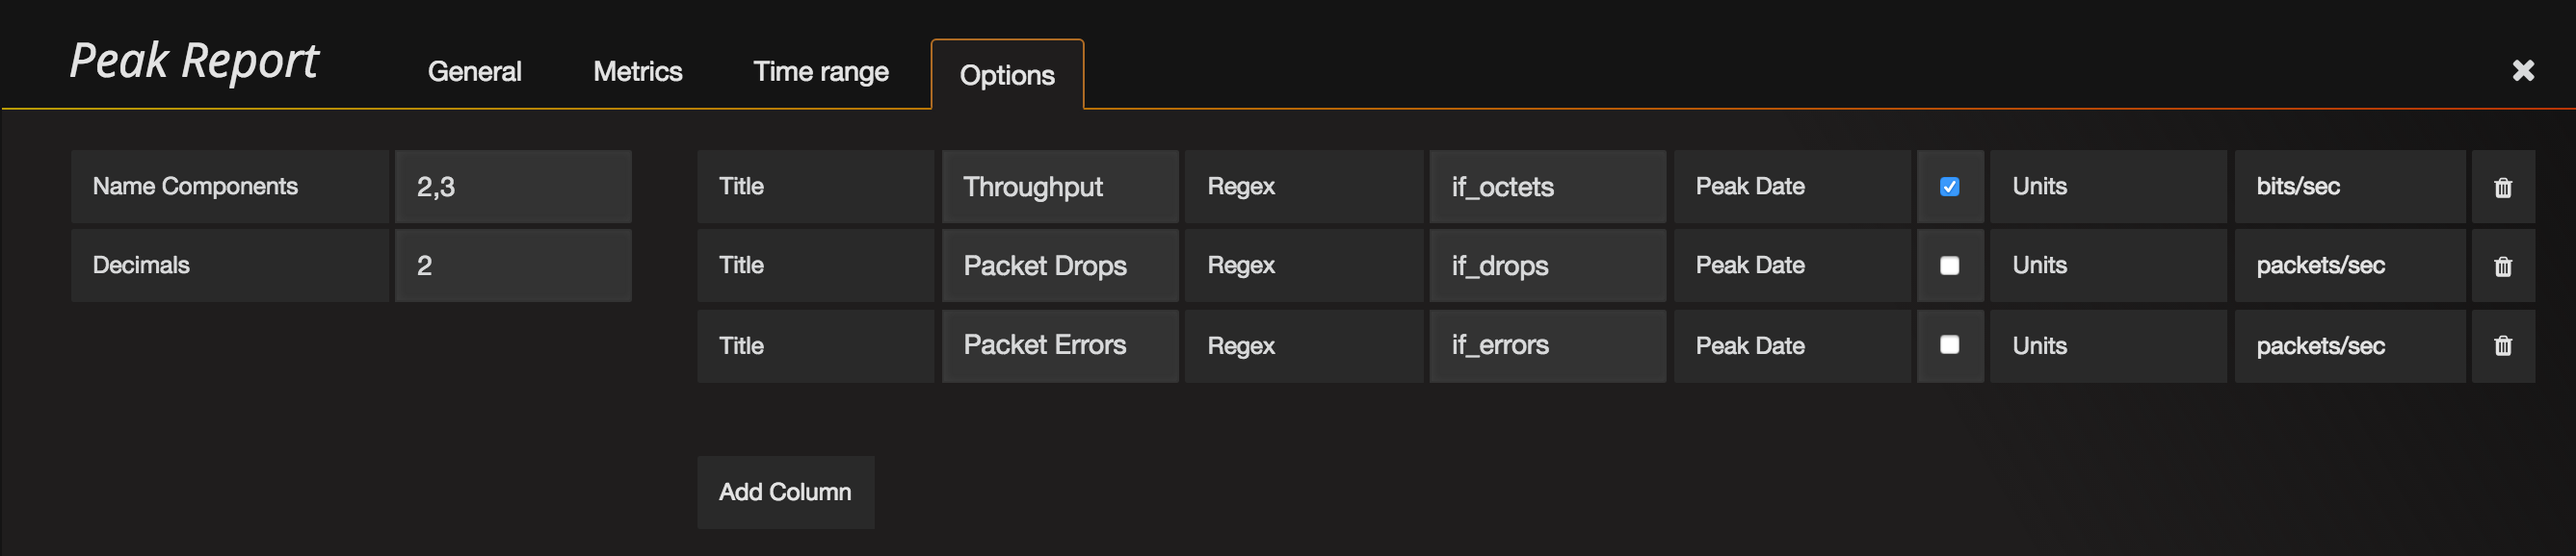
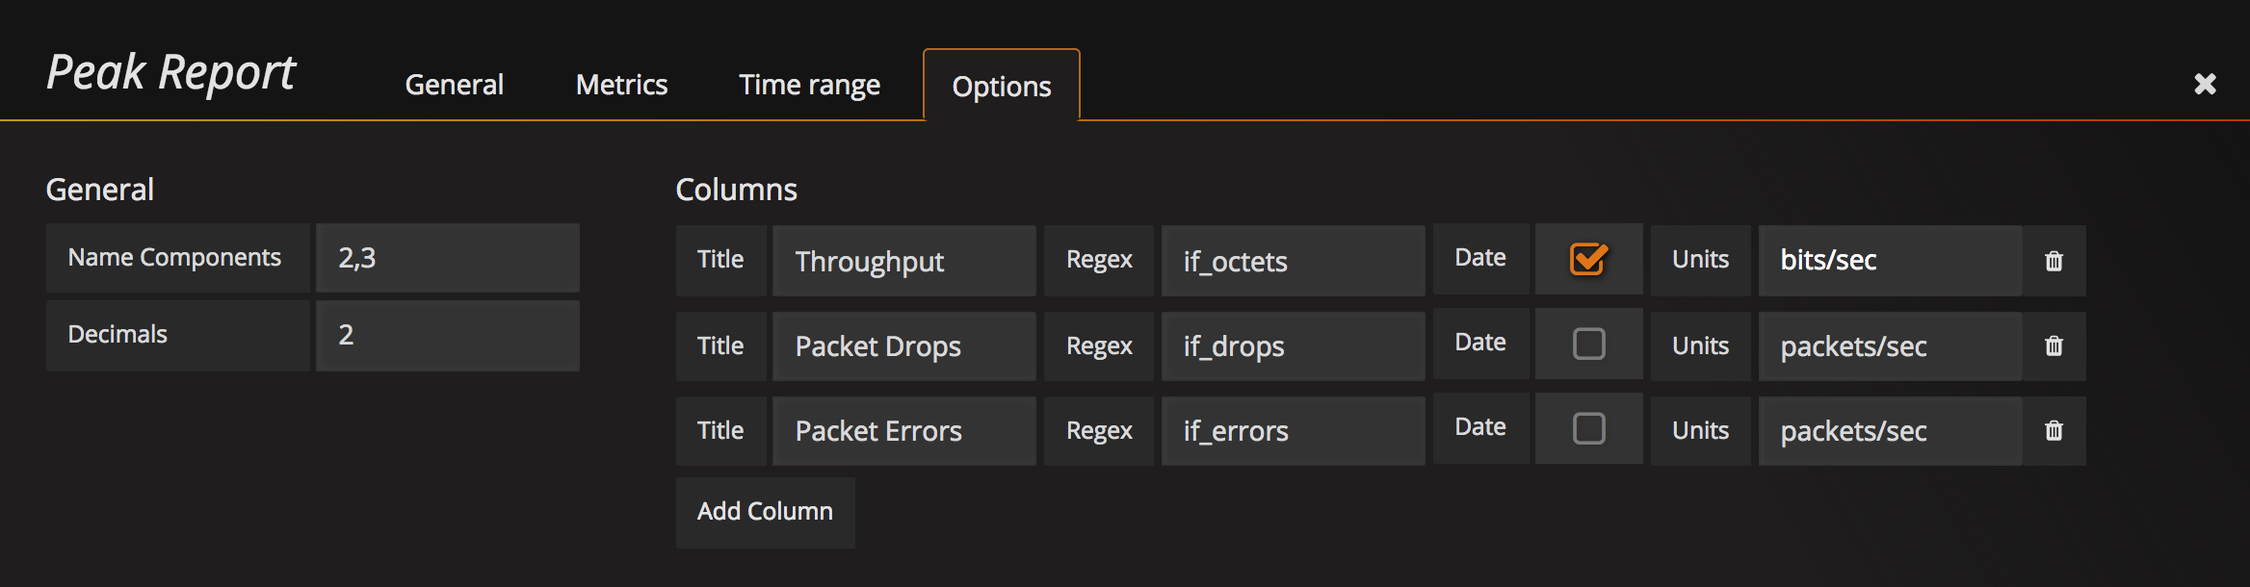
Tweak styles and screenshots

diff --git a/dist/editor.html b/dist/editor.html
@@ -1,50 +1,40 @@
-<div class="col-md-3">
-  <div class="editor-row">
+<div class="editor-row">
+  <div class="section gf-form-group">
+    <h5 class="section-heading">General</h5>
+
     <div class="gf-form">
       <label class="gf-form-label width-10">Name Components</label>
-        <input type="text" class="input-small gf-form-input width-9"
-               ng-model="ctrl.panel.nameComponents" ng-change="ctrl.render()"/>
+        <input type="text" class="input-small gf-form-input width-10" ng-model="ctrl.panel.nameComponents" ng-change="ctrl.render()"/>
     </div>
+
     <div class="gf-form">
       <label class="gf-form-label width-10">Decimals</label>
-        <input type="text" class="input-small gf-form-input width-9"
-               ng-model="ctrl.panel.decimals" ng-change="ctrl.render()" >
+        <input type="text" class="input-small gf-form-input width-10" ng-model="ctrl.panel.decimals" ng-change="ctrl.render()" >
     </div>
   </div>
-</div>
 
-<div class="col-md-9">
-  <div class="editor-row">
-    <div class="section gf-form-group">
-      <div class="gf-form" ng-repeat="column in ctrl.panel.columns">
-        <label class="gf-form-label width-10">Title</label>
-        <input type="text" class="input-small gf-form-input width-9" ng-model="column.title" ng-change="ctrl.render()" ng-model-onblur=true/>
+  <div class="section gf-form-group">
+    <h5 class="section-heading">Columns</h5>
 
-        <label class="gf-form-label width-8">Regex</label>
-        <input type="text" class="input-small gf-form-input width-9" ng-model="column.regex" ng-change="ctrl.render()" ng-model-onblur=true/>
+    <div class="gf-form" ng-repeat="column in ctrl.panel.columns">
+      <label class="gf-form-label">Title</label>
+      <input type="text" class="input-small gf-form-input width-10" ng-model="column.title" ng-change="ctrl.render()"/>
 
-        <label class="gf-form-label width-8">Peak Date</label>
-        <div class="input-small gf-form-input width-3">
-          <input type="checkbox" ng-model="column.showDate" ng-change="ctrl.render()" ng-model-onblur=true/>
-        </div>
-        <br/>
+      <label class="gf-form-label">Regex</label>
+      <input type="text" class="input-small gf-form-input width-10" ng-model="column.regex" ng-change="ctrl.render()"/>
 
-        <label class="gf-form-label width-8">Units</label>
-	<div class="dropdown width-15"
-             ng-model="column.format"
-             dropdown-typeahead="ctrl.unitFormats"
-             dropdown-typeahead-on-select="ctrl.onEditorFormatSelect($subItem, column)">
-        </div>
+      <gf-form-switch class="gf-form" label="Date" checked="column.showDate" on-change="ctrl.render()"/>
 
-        <label class="gf-form-label">
-          <a class="pointer" ng-click="ctrl.onEditorRemoveColumnClick($index)">
-            <i class="fa fa-trash"/>
-          </a>
-        </label>
-      </div>
+      <label class="gf-form-label">Units</label>
+      <div class="dropdown width-10" ng-model="column.format" dropdown-typeahead2="ctrl.unitFormats" dropdown-typeahead-on-select="ctrl.onEditorFormatSelect($subItem, column)"/>
+
+      <label class="gf-form-label">
+        <a class="pointer" ng-click="ctrl.onEditorRemoveColumnClick($index)">
+          <i class="fa fa-trash"/>
+        </a>
+      </label>
 		</div>
-	</div>
-  <div class="editor-row">
+
     <div class="gf-form">
       <label class="gf-form-label">
         <a class="pointer" ng-click="ctrl.onEditorAddColumnClick()">

diff --git a/src/editor.html b/src/editor.html
@@ -1,50 +1,40 @@
-<div class="col-md-3">
-  <div class="editor-row">
+<div class="editor-row">
+  <div class="section gf-form-group">
+    <h5 class="section-heading">General</h5>
+
     <div class="gf-form">
       <label class="gf-form-label width-10">Name Components</label>
-        <input type="text" class="input-small gf-form-input width-9"
-               ng-model="ctrl.panel.nameComponents" ng-change="ctrl.render()"/>
+        <input type="text" class="input-small gf-form-input width-10" ng-model="ctrl.panel.nameComponents" ng-change="ctrl.render()"/>
     </div>
+
     <div class="gf-form">
       <label class="gf-form-label width-10">Decimals</label>
-        <input type="text" class="input-small gf-form-input width-9"
-               ng-model="ctrl.panel.decimals" ng-change="ctrl.render()" >
+        <input type="text" class="input-small gf-form-input width-10" ng-model="ctrl.panel.decimals" ng-change="ctrl.render()" >
     </div>
   </div>
-</div>
 
-<div class="col-md-9">
-  <div class="editor-row">
-    <div class="section gf-form-group">
-      <div class="gf-form" ng-repeat="column in ctrl.panel.columns">
-        <label class="gf-form-label width-10">Title</label>
-        <input type="text" class="input-small gf-form-input width-9" ng-model="column.title" ng-change="ctrl.render()" ng-model-onblur=true/>
+  <div class="section gf-form-group">
+    <h5 class="section-heading">Columns</h5>
 
-        <label class="gf-form-label width-8">Regex</label>
-        <input type="text" class="input-small gf-form-input width-9" ng-model="column.regex" ng-change="ctrl.render()" ng-model-onblur=true/>
+    <div class="gf-form" ng-repeat="column in ctrl.panel.columns">
+      <label class="gf-form-label">Title</label>
+      <input type="text" class="input-small gf-form-input width-10" ng-model="column.title" ng-change="ctrl.render()"/>
 
-        <label class="gf-form-label width-8">Peak Date</label>
-        <div class="input-small gf-form-input width-3">
-          <input type="checkbox" ng-model="column.showDate" ng-change="ctrl.render()" ng-model-onblur=true/>
-        </div>
-        <br/>
+      <label class="gf-form-label">Regex</label>
+      <input type="text" class="input-small gf-form-input width-10" ng-model="column.regex" ng-change="ctrl.render()"/>
 
-        <label class="gf-form-label width-8">Units</label>
-	<div class="dropdown width-15"
-             ng-model="column.format"
-             dropdown-typeahead="ctrl.unitFormats"
-             dropdown-typeahead-on-select="ctrl.onEditorFormatSelect($subItem, column)">
-        </div>
+      <gf-form-switch class="gf-form" label="Date" checked="column.showDate" on-change="ctrl.render()"/>
 
-        <label class="gf-form-label">
-          <a class="pointer" ng-click="ctrl.onEditorRemoveColumnClick($index)">
-            <i class="fa fa-trash"/>
-          </a>
-        </label>
-      </div>
+      <label class="gf-form-label">Units</label>
+      <div class="dropdown width-10" ng-model="column.format" dropdown-typeahead2="ctrl.unitFormats" dropdown-typeahead-on-select="ctrl.onEditorFormatSelect($subItem, column)"/>
+
+      <label class="gf-form-label">
+        <a class="pointer" ng-click="ctrl.onEditorRemoveColumnClick($index)">
+          <i class="fa fa-trash"/>
+        </a>
+      </label>
 		</div>
-	</div>
-  <div class="editor-row">
+
     <div class="gf-form">
       <label class="gf-form-label">
         <a class="pointer" ng-click="ctrl.onEditorAddColumnClick()">

diff --git a/README.md b/README.md
@@ -4,7 +4,7 @@ A peak report panel for [Grafana](http://grafana.org/).
 
 ![Peak Report Panel](https://raw.githubusercontent.com/BTplc/grafana-peak-report/master/src/img/peak_report_tutorial.gif)
 
-This panel shows a table that summarises multiple series into a report of peak values. Each row is formed by grouping series together using the first few components of the metric name. The cells for a row are calculated using some or all of the series, filtered by regex. The value for a cell is the maximum or peak value across all the series matching the regex filter for the column.
+This panel shows a table that summarises multiple series into a report of peak values. Each row is formed by grouping series together using the first few components of the metric name. The cells for a row are calculated using some or all of the series, filtered by regex. The value for a cell is the maximum across all the series matching the regex filter for the column.
 
 ## Compatibility
 
